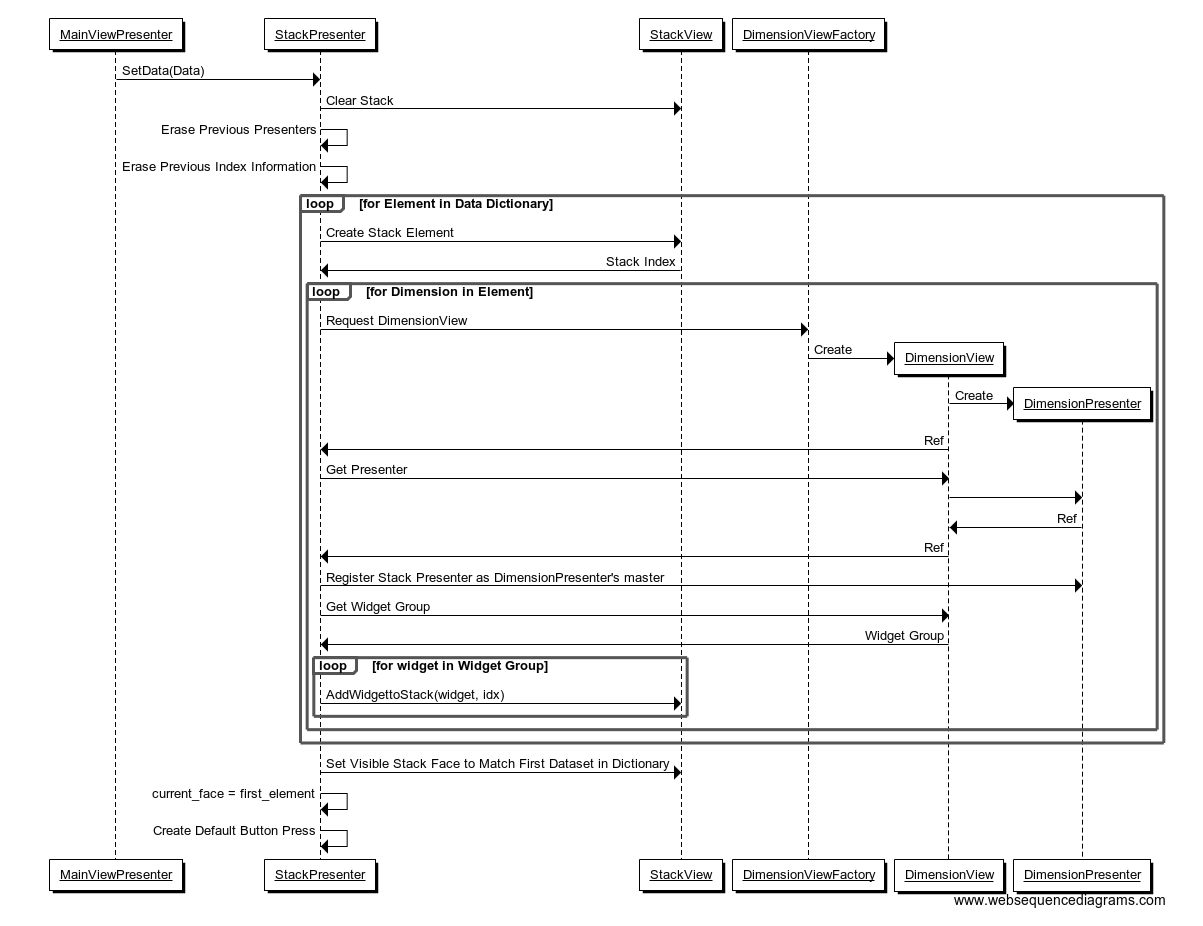
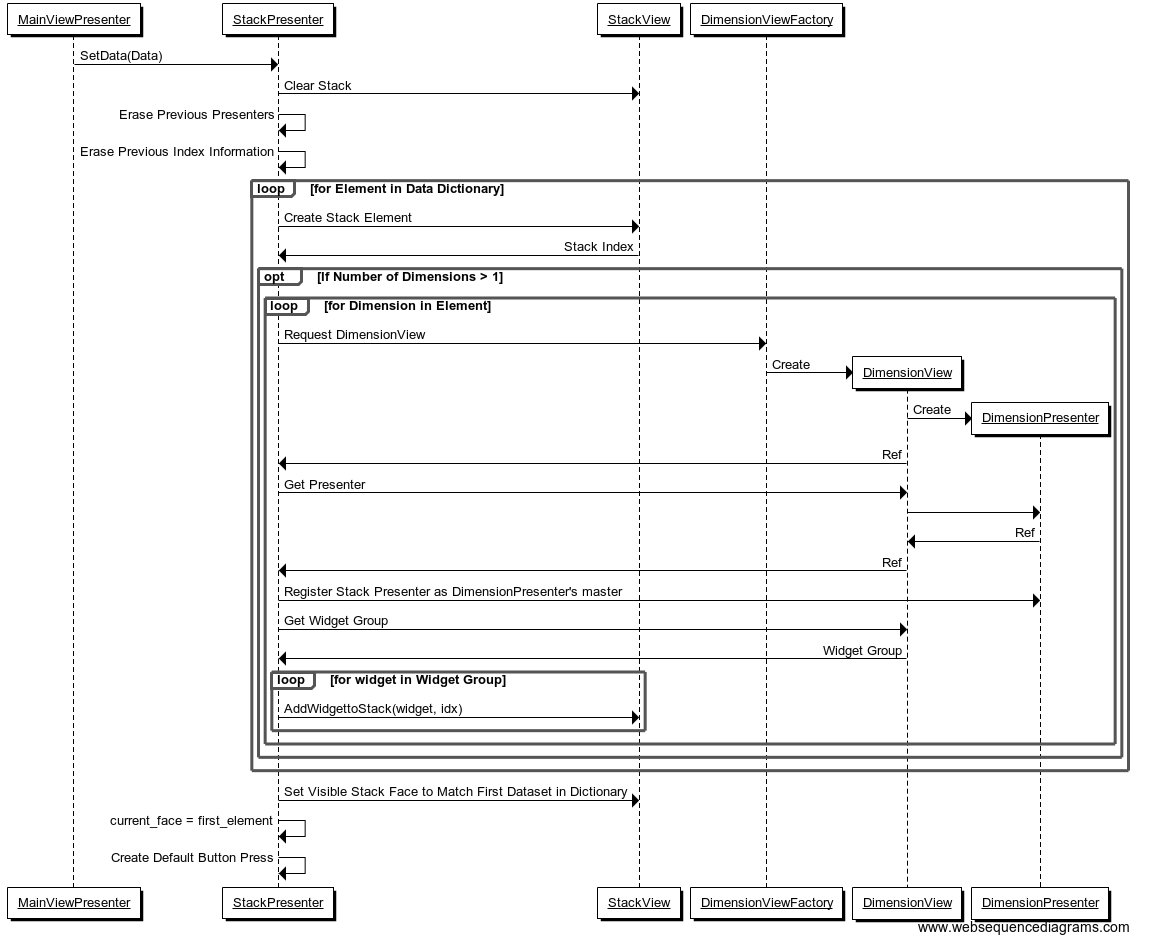
More sequence diagrams

diff --git a/datasetviewer/stack/StackPresenter.py b/datasetviewer/stack/StackPresenter.py
@@ -166,7 +166,7 @@ class StackPresenter(StackPresenterInterface):
             self._dim_presenters[key][dataset.dims[1]].set_x_state(False)
             self._dim_presenters[key][dataset.dims[1]].disable_dimension()
 
-        # Enable the remaining dimensions and reset their sliders/steppers
+        # Enable the remaining dimensions and reset the sliders/steppers for every dimension
         for dim_name in self._dim_presenters[key].keys():
 
             if dim_name in [dataset.dims[0], dataset.dims[1]]:

diff --git a/datasetviewer/tests/dimension_presenter_test.py b/datasetviewer/tests/dimension_presenter_test.py
@@ -251,4 +251,6 @@ class DimensionPresenterTest(unittest.TestCase):
 
         self.mock_dim_view.set_slider_value.assert_called_once_with(0)
         self.mock_dim_view.set_stepper_value.assert_called_once_with(0)
+
+        # Check that the signal was blocked while the slider and stepper values were modified
         self.mock_dim_view.block_signal.assert_has_calls([mock.call(True), mock.call(False)])

diff --git a/documents/Design.md b/documents/Design.md
@@ -30,8 +30,8 @@ These sequence diagrams illustrate the object interactions that occur in the cas
 * Changing the stepper value for one of the dimensions
 * Loading a file and...
     * having a summary of its contents appear in a preview pane,
-    * creating and setting up the widgets that appear on the Stack
- 
+    * creating and setting up the widgets that appear on the Stack,
+    * generating a default plot
 ### Pressing an X Button
 ![X Button Press Sequence Diagram](XButtonPress.png)
 ### Stepper Change
@@ -40,6 +40,14 @@ These sequence diagrams illustrate the object interactions that occur in the cas
 ![Loading a File Sequence Diagram](FileLoad.png)
 ### Stack Preparation
 ![Stack Presenter Diagram](LoadDatatoStackPresenter.png)
+Note: As the `DimensionView` doesn't inherit from `QWidget` but simply stores the Dimension View elements (label, buttons, etc), it can't be placed on the Stack. Instead the widgets it contains are retrieved from the `DimensionView` via a call to `get_widgets` and the items this method returns are placed in the Stack one-by-one.
+Afterwards the `StackPresenter` instructs the Stack to set the face corresponding with the first dataset to be visible, as this will contain the sliders for the first dataset.
+## Default Button/Slider/Stepper Configuration
+![Default Button Diagram](DefaultButtons.png)
+Note: This takes place after loading a file or selecting a different element from the preview. If the data only has a single dimension then nothing takes place.
+## Default Plot Preparation
+![Default Plot](DefaultPlot.png)
+Note: The toolbar that allows zooming and reseting the plot is in the MainView, so it must be informed whenever a new dataset is loaded or an existing dataset is sliced in a new way.
 ## Development Principles
 * All programming will follow a test-driven development approach
 * At least one reviewer must examine the code and this reviewer cannot be the developer of the feature
